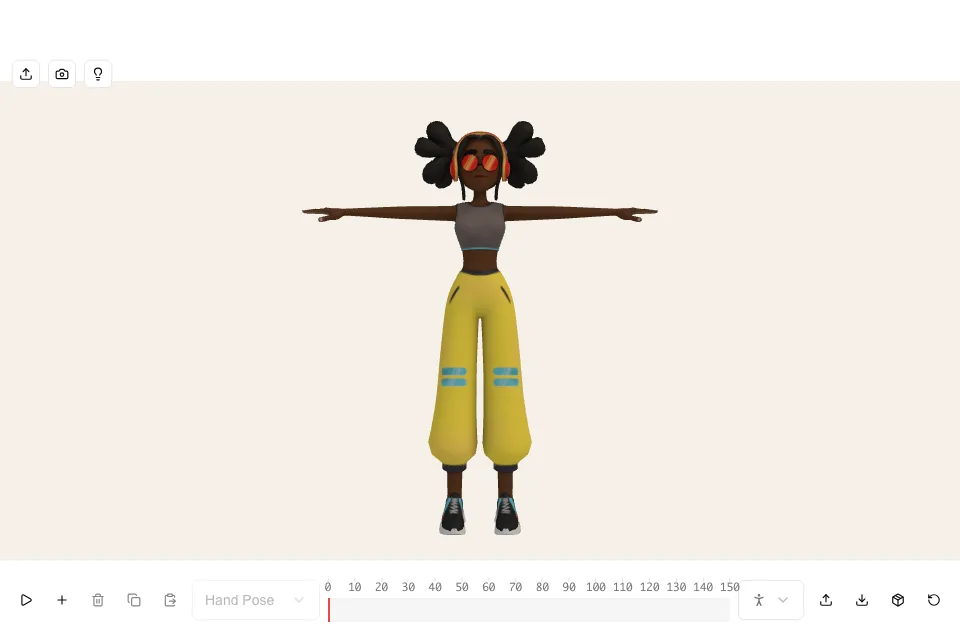
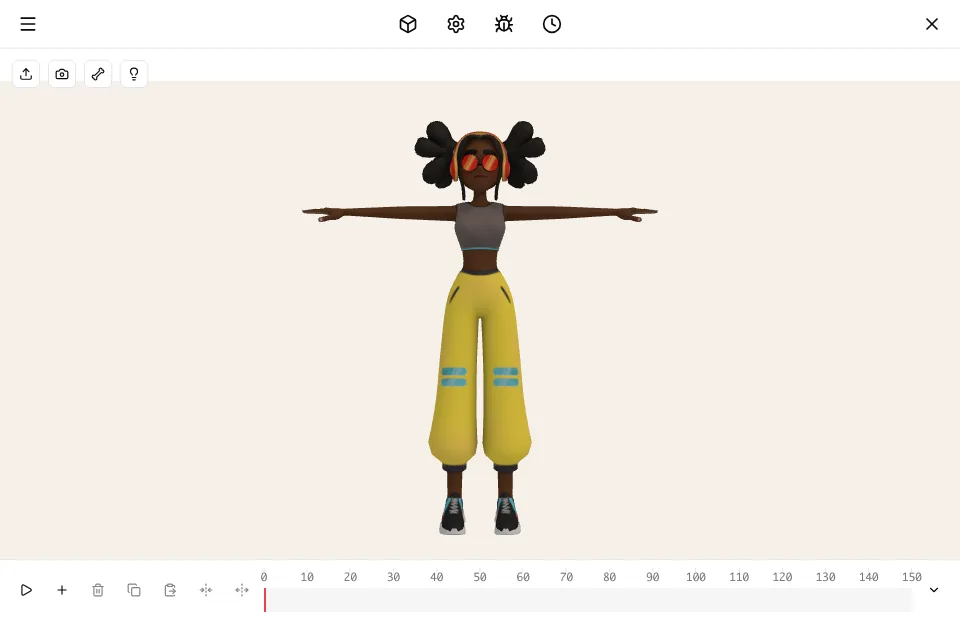
feat: dock the bone markers toggle on the canvas instead of the Config panel
The toggle previously lived in the Config panel, disconnected from the bone
markers it controls and from the model itself. It now sits directly on the
canvas next to the other docked controls, replacing the Config panel
checkbox rather than duplicating it.

diff --git a/src/views/Tools/RigAnimator/RigAnimator.vue b/src/views/Tools/RigAnimator/RigAnimator.vue
@@ -17,7 +17,7 @@ import {
   type HandPoseDefinition,
   type HandOrientation
 } from '@webgamekit/rig'
-import { Upload, Camera as CameraIcon, Lightbulb, Circle } from 'lucide-vue-next'
+import { Upload, Camera as CameraIcon, Lightbulb, Circle, Bone } from 'lucide-vue-next'
 import LoadingOverlay from '@/components/LoadingOverlay.vue'
 import IconButton from '@/components/IconButton.vue'
 import {
@@ -323,6 +323,11 @@ const toggleMarbleFlow = (): void => {
   reactiveConfig.value.marbleFlowEnabled = !reactiveConfig.value.marbleFlowEnabled
 }
 
+/** The docked bone icon shows or hides the per-bone markers, same toggle shape as physics. */
+const toggleBoneMarkers = (): void => {
+  reactiveConfig.value.showBoneMarkers = !reactiveConfig.value.showBoneMarkers
+}
+
 /**
  * Applies a detected body pose and, riding along on the same emit, any detected hand poses and
  * orientations. Also turns the torso to roughly the angle the photo shows the subject from, the
@@ -598,6 +603,16 @@ onUnmounted(() => {
       @click="toggleCameraCapture"
     >
       <CameraIcon />
+    </IconButton>
+    <IconButton
+      v-if="rig.bones.value.length > 0"
+      size="sm"
+      variant="outline"
+      :active="reactiveConfig.showBoneMarkers"
+      :title="reactiveConfig.showBoneMarkers ? 'Hide Bone Markers' : 'Show Bone Markers'"
+      @click="toggleBoneMarkers"
+    >
+      <Bone />
     </IconButton>
     <IconButton
       size="sm"

diff --git a/src/views/Tools/RigAnimator/panelSchema.ts b/src/views/Tools/RigAnimator/panelSchema.ts
@@ -37,8 +37,7 @@ export const buildRigAnimatorSchema = (
             z: positionRange * POSITION_STEP_FRACTION
           }
         },
-        resetBone: { callback: 'resetBone', label: 'Reset Bone to Rest Pose' },
-        showBoneMarkers: { checkbox: true, label: 'Show Bone Markers' }
+        resetBone: { callback: 'resetBone', label: 'Reset Bone to Rest Pose' }
       }
     : {}),
   ...(canCaptureFromCamera

diff --git a/documentation/docs/guides/rig-animator.md b/documentation/docs/guides/rig-animator.md
@@ -118,11 +118,12 @@ a rigged glTF character), the bone list appears immediately. The camera re-frame
 scale the model happens to use, since a Mixamo FBX is roughly a hundred times the scale of a
 typical glTF asset and a fixed camera position would put one of them somewhere behind a shoe.
 
-A third docked button, Physics, sits beside these two. Once it is on, a fourth joins it, Marble
-Flow, which starts and stops the drip; dropping one on demand is a touch, not a button, covered
-in its own section below along with Physics.
+A third docked button, the bone icon, toggles every bone marker on and off, once the model has a
+skeleton; see "Picking and posing a bone" below. A fourth, Physics, sits beside it, and once
+that is on, a fifth joins it, Marble Flow, which starts and stops the drip; dropping one on
+demand is a touch, not a button, covered in its own section below along with Physics.
 
-![Upload Model, Capture Pose from Camera and Physics docked at the top left of the canvas](/img/animation/rig-canvas-controls.webp)
+![Upload Model, Capture Pose from Camera, Bone Markers and Physics docked at the top left of the canvas](/img/animation/rig-canvas-controls.webp)
 
 ## Picking and posing a bone
 
@@ -130,9 +131,9 @@ Every bone gets a small marker, sized as a fraction of the whole rig's spread so
 model scale, and shrinking with hierarchy depth so a hip or shoulder joint reads larger than a
 fingertip further down the chain. Clicking a marker, or picking a name from the Config panel's
 **Bone** dropdown, selects it: the marker turns rose, every other one stays the default
-periwinkle. **Show Bone Markers**, in the same panel, hides them all for a clean view of the
-model itself; picking a bone by clicking its marker is unavailable while they are hidden, but
-the **Bone** dropdown still selects one. That dropdown lists the core skeleton first, in a
+periwinkle. The docked bone icon on the canvas hides them all for a clean view of the model
+itself; picking a bone by clicking its marker is unavailable while they are hidden, but the
+**Bone** dropdown still selects one. That dropdown lists the core skeleton first, in a
 posing-relevant order (hips, spine, neck, head, then each limb root), before anything else the
 rig happens to carry (fingers, toes, a custom rig's own extra bones), rather than whatever
 arbitrary order the model's own source file listed its skeleton in: an uploaded model's own
